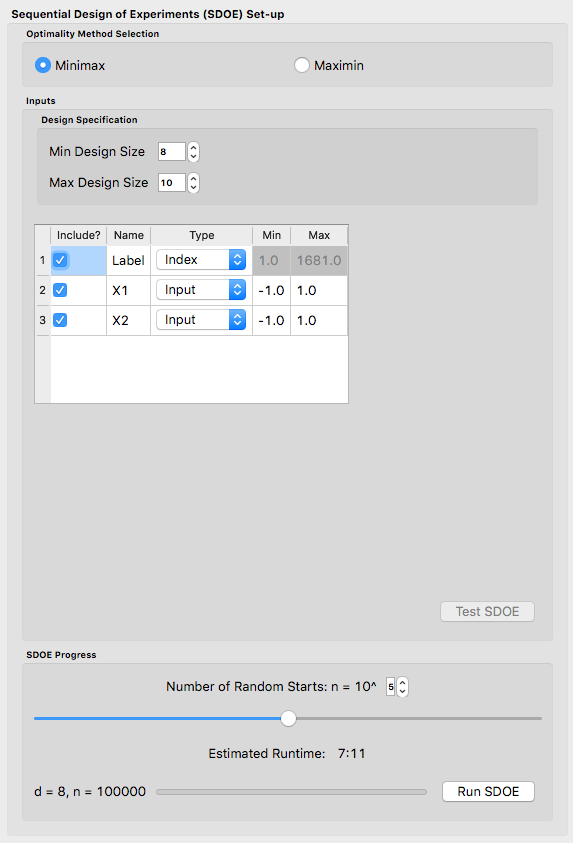
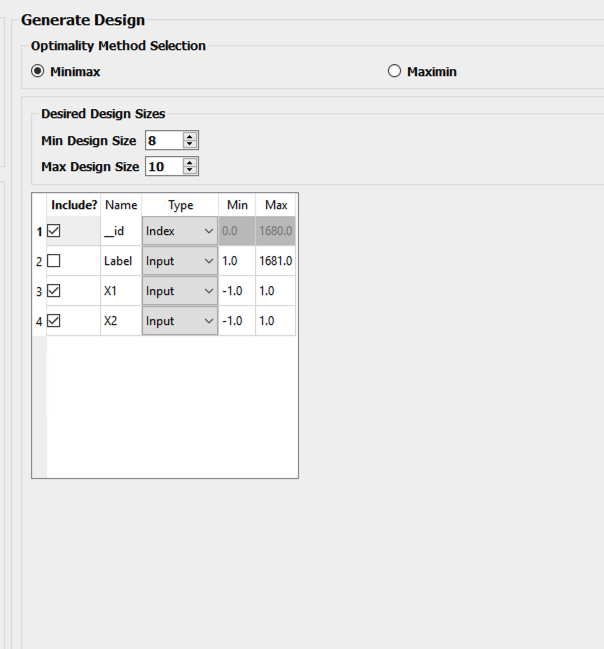
Documentation updates

diff --git a/docs/source/chapt_sdoe/examples-uniform.rst b/docs/source/chapt_sdoe/examples-uniform.rst
@@ -19,7 +19,7 @@ For this first example, the goal is to construct a simple space-filling design w
    
    Ex 1 Candidate Grid
    
-3. Next, click on **Confirm** to advance to the **Ensemble Aggregation** Window, and then click on **Uniform Space Filling** to advance to the second SDOE screen, where particular choices about the design can be made. On the second screen, select **minimax** for the **Optimality Method Selection**. Change the **Min Design Size** and **Max Design Size** to 8 and 10, respectively. This will construct 3 minimax designs of size 8, 9 and 10. Next, change the column called **Label** to be **Index**. This will mean that the design is not constructed using this as an input, but rather that the unique identifiers in this column will help identify which runs from the candidate set were chosen for the final designs. Since the ranges of each of X1 and X2 are the bounds that we want to use for creating this design, we do not need to change the entries in **Min** and **Max**.
+3. Next, click on **Continue** to advance to the **Ensemble Aggregation** Window, and then select **Uniform Space Filling** and click on **Open SDoE Dialog** to advance to the second SDOE screen, where particular choices about the design can be made. On the second screen, select **minimax** for the **Optimality Method Selection**. Change the **Min Design Size** and **Max Design Size** to 8 and 10, respectively. This will construct 3 minimax designs of size 8, 9 and 10. Next, uncheck the column called **Label**. This will mean that the design is not constructed using this as an input.  There should be an **_id** column automatically created containing unique identifiers to identify which runs from the candidate set were chosen for the final designs. Since the ranges of each of X1 and X2 are the bounds that we want to use for creating this design, we do not need to change the entries in **Min** and **Max**.
 
 .. figure:: figs/Ex1U_3_mM_choices.png
    :alt: Home Screen
@@ -27,7 +27,7 @@ For this first example, the goal is to construct a simple space-filling design w
    
    Ex 1 Minimax design choices
    
-4. Once the choices for the design have been specified, click on the **Test SDOE** button to estimate the time taken for creating the designs. For the computer on which this example was developed, if we ran the minimum number of random starts (10^3=1000), it is estimated that the code would take 4 seconds to create the three designs (of size 8, 9 and 10). If we chose 10^4=10000 runs, then the code is estimated to take 44 seconds. It is estimated that 10^5=100000 random starts would take 7 minutes and 11 seconds, while 10^6=1 million random starts would take approximately 1 hour, 12 minutes. In this case, we selected to create designs based on 100000 random starts, since this was a suitable balance between timeliness and giving the algorithm a chance to find the best possible designs. Hence, select 10^5 for the **Number of Random Starts**, and then click **Run SDOE**.  
+4. Once the choices for the design have been specified, click on the **Run SDOE** button to estimate the time taken for creating the designs. For the computer on which this example was developed, if we ran the minimum number of random starts (10^3=1000), it is estimated that the code would take 4 seconds to create the three designs (of size 8, 9 and 10). If we chose 10^4=10000 runs, then the code is estimated to take 44 seconds. It is estimated that 10^5=100000 random starts would take 7 minutes and 11 seconds, while 10^6=1 million random starts would take approximately 1 hour, 12 minutes. In this case, we selected to create designs based on 100000 random starts, since this was a suitable balance between timeliness and giving the algorithm a chance to find the best possible designs. Hence, select 10^5 for the **Number of Random Starts**, and then click **Run SDOE**.  
 
 5. Since we are also interested in examining maximin designs for the same scenario, we click on the **Reload Design Specifications** button in the **Created Design** window to repopulate the right window with the same choices that we made for all of the design options.
 
